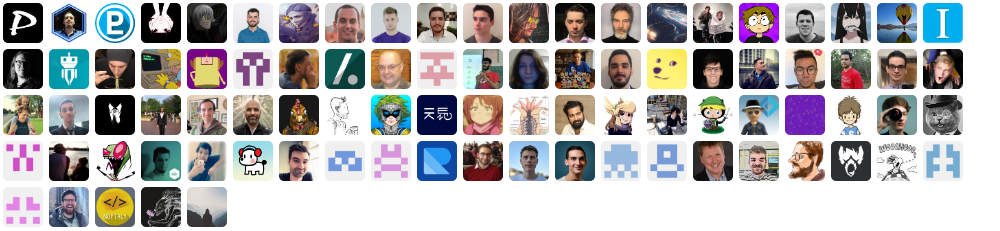
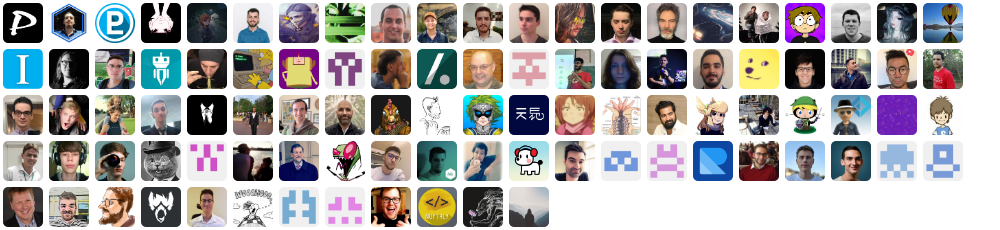
Release 3.9.2

diff --git a/src/scripts/preview/index.ts b/src/scripts/preview/index.ts
@@ -25,5 +25,5 @@ const folderThemes = filterDuplicates(folderIcons.map(theme => {
     return [].concat(...folders);
 }).reduce((a, b) => a.concat(b))).map(i => ({ iconName: i, label: i.replace('folder-', '') }));
 
-generatePreview('fileIcons', basicFileIcons, 5, ['powerpoint', 'virtual', 'todo', 'word']);
-generatePreview('folderIcons', folderThemes, 5, ['']);
+generatePreview('fileIcons', basicFileIcons, 5, ['powerpoint', 'virtual', 'todo']);
+generatePreview('folderIcons', folderThemes, 5, []);

diff --git a/CHANGELOG.md b/CHANGELOG.md
@@ -1,4 +1,23 @@
 # Changelog
+## 3.9.2 (2019-11-24)
+### New file icons
+- Fortran ([issue #368](https://github.com/PKief/vscode-material-icon-theme/issues/368))
+- .gcloudignore ([issue #556](https://github.com/PKief/vscode-material-icon-theme/issues/556))
+- .env.testing ([@MatheusKProt](https://github.com/MatheusKProt) in [#561](https://github.com/PKief/vscode-material-icon-theme/pull/561))
+- codecov ([@yardenshoham](https://github.com/yardenshoham) in [#537](https://github.com/PKief/vscode-material-icon-theme/pull/537))
+- image and 3D extensions ([@crse](https://github.com/crse) in [#573](https://github.com/PKief/vscode-material-icon-theme/pull/573))
+- Fix [#577](https://github.com/PKief/vscode-material-icon-theme/issues/577) - netlify ([@hacknug](https://github.com/hacknug) in [a6a04aa](https://github.com/PKief/vscode-material-icon-theme/commit/a6a04aa3550537803300284a55241cdc1ef7d6f7))
+- AdvPL ([@leotads](https://github.com/leotads) in [#534](https://github.com/PKief/vscode-material-icon-theme/pull/534))
+- .mjmlconfig
+- CODEOWNERS
+- *.apk
+- *.iso
+
+### New folder icons
+- json ([@rbalet](https://github.com/rbalet) in [#543](https://github.com/PKief/vscode-material-icon-theme/pull/543))
+- router ([issue #564](https://github.com/PKief/vscode-material-icon-theme/issues/564))
+- githooks
+
 ## 3.9.1 (2019-10-07)
 ### Minor improvements
 - Add "databases" to "database" folder names ([@noftaly](https://github.com/noftaly) in [#530](https://github.com/PKief/vscode-material-icon-theme/pull/530))
